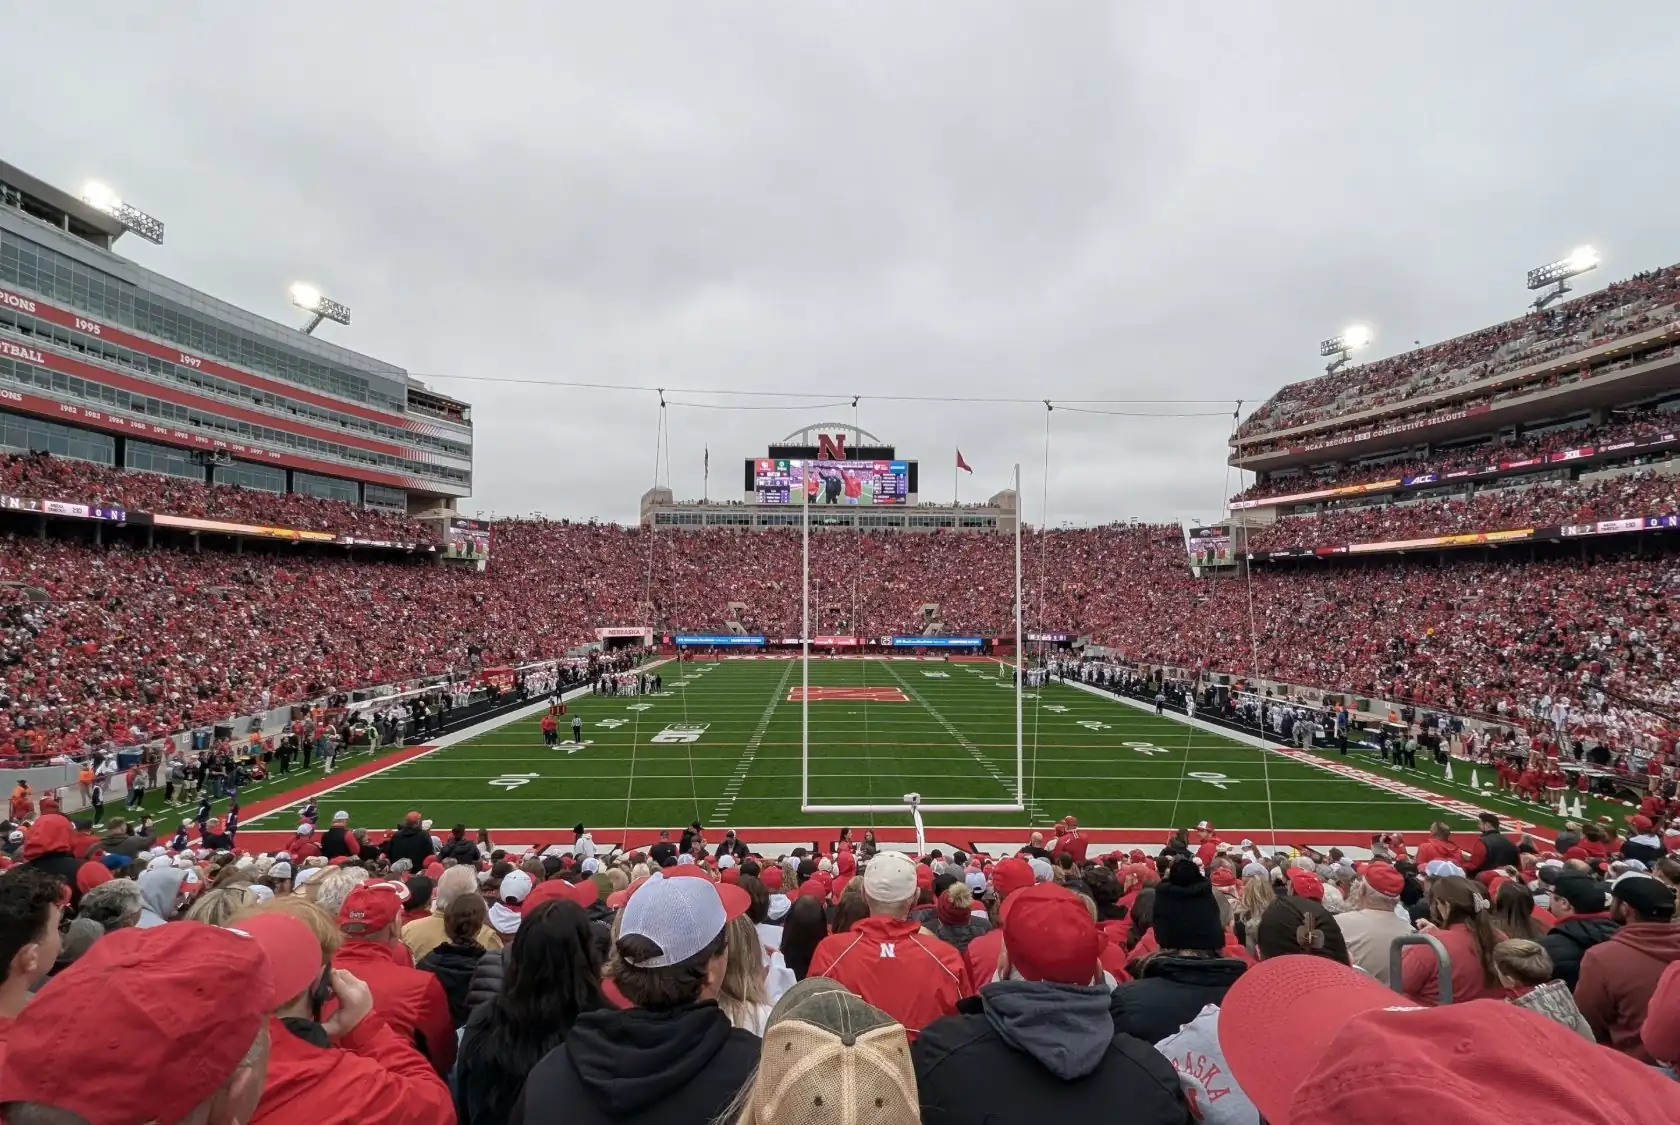
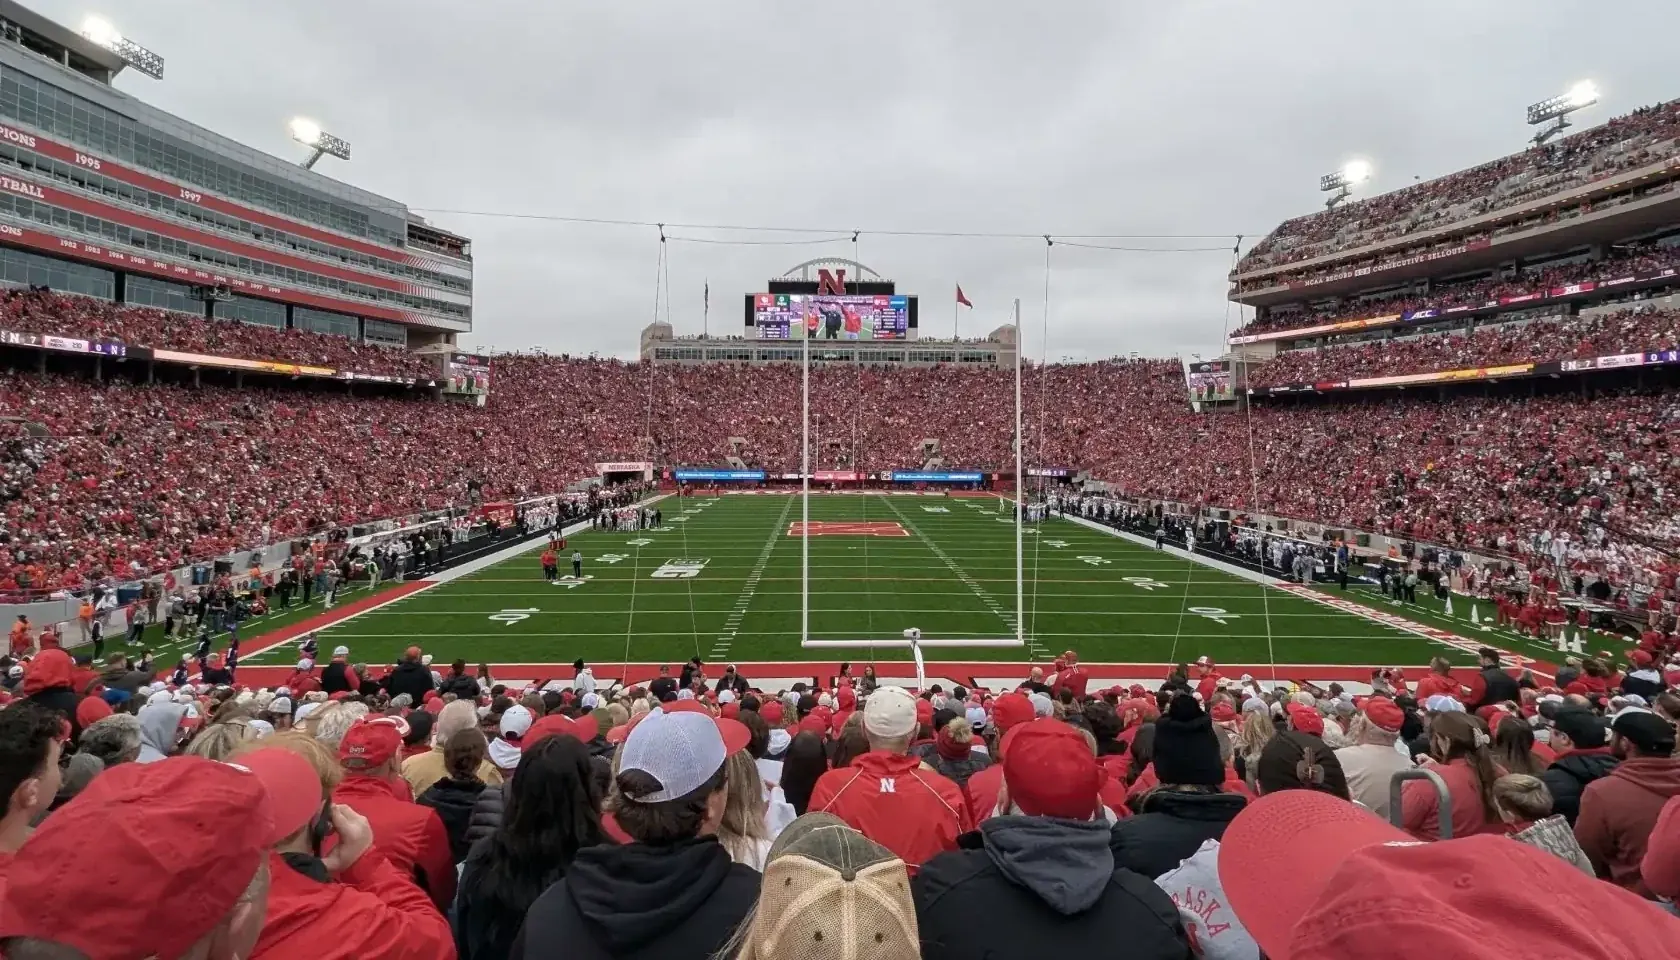
Fixed page backgrounds, Memorial Stadium recrop, gentler fade; phones: sharp whole photos, filters scroll away, slim top bar
Claude-Session: https://claude.ai/code/session_01C5NGh7H2BiqoR7npcamXz7

diff --git a/assets/style.css b/assets/style.css
@@ -41,7 +41,6 @@ h1,h2,h3{font-family:var(--f-d);text-transform:uppercase;letter-spacing:.01em;li
   .nav{order:3;flex:1 1 100%;flex-wrap:nowrap;overflow-x:auto;scrollbar-width:none;margin:0 -6px}
   .nav::-webkit-scrollbar{display:none}
 }
-@media (max-width:860px){.top{position:static}.tools{position:static}}
 
 main{min-height:calc(70vh / var(--z));outline:none}
 .loading,.empty{color:var(--mu);text-align:center;padding:80px 16px}
@@ -1027,16 +1026,18 @@ a.have-cd:hover .ph{border-color:rgba(70,200,120,.6)}
 @media (max-width:640px){.lt-rows{gap:8px}}
 /* Page backgrounds (Ian, 2026-11-25): stadium lights and fine grain on every page; the home page adds ghosted neon
    signatures; football / baseball / basketball pages add a real field, diamond or court photo, faded into the page. */
-.page-bg{position:absolute;left:0;right:0;top:0;height:1100px;z-index:-1;pointer-events:none;overflow:hidden}
+.page-bg{position:fixed;inset:0;z-index:-1;pointer-events:none;overflow:hidden}
 .page-bg i,.page-bg::after{position:absolute;inset:0}
-/* Desktop shows the whole photo across the page width (not zoomed in), fading out only near its bottom edge. */
-.pb-ph{display:none;top:90px;background:center top/100% auto no-repeat;opacity:.34;
-  -webkit-mask:linear-gradient(#000 0,#000 62%,transparent 92%);mask:linear-gradient(#000 0,#000 62%,transparent 92%)}
-body[data-bg="lions"] .pb-ph{display:block;background-image:url(bg/lions.webp)}
-body[data-bg="baseball"] .pb-ph{display:block;background-image:url(bg/baseball.webp)}
-body[data-bg="basketball"] .pb-ph{display:block;background-image:url(bg/basketball.webp)}
-body[data-bg="husker-baseball"] .pb-ph{display:block;background-image:url(bg/husker-baseball.webp)}
-body[data-bg="husker-football"] .pb-ph{display:block;background-image:url(bg/husker-football.webp)}
+/* The backgrounds stay in place while the page scrolls (fixed layer). Each photo shows whole across the page width
+   (not zoomed in), up to the screen's height, and fades out gently toward its bottom edge. */
+.pb-ph{display:none;top:90px;bottom:auto;aspect-ratio:var(--ar,1.5);max-height:calc(100vh - 90px);background:center 75%/cover no-repeat;opacity:.34;
+  -webkit-mask:linear-gradient(#000 0,#000 45%,rgba(0,0,0,.85) 58%,rgba(0,0,0,.6) 70%,rgba(0,0,0,.35) 81%,rgba(0,0,0,.14) 91%,transparent 100%);
+  mask:linear-gradient(#000 0,#000 45%,rgba(0,0,0,.85) 58%,rgba(0,0,0,.6) 70%,rgba(0,0,0,.35) 81%,rgba(0,0,0,.14) 91%,transparent 100%)}
+body[data-bg="lions"] .pb-ph{display:block;--ar:1500/1004;background-image:url(bg/lions.webp)}
+body[data-bg="baseball"] .pb-ph{display:block;--ar:2000/1333;background-image:url(bg/baseball.webp)}
+body[data-bg="basketball"] .pb-ph{display:block;--ar:1760/1152;background-image:url(bg/basketball.webp)}
+body[data-bg="husker-baseball"] .pb-ph{display:block;--ar:2000/1325;background-image:url(bg/husker-baseball.webp)}
+body[data-bg="husker-football"] .pb-ph{display:block;--ar:1680/960;background-image:url(bg/husker-football.webp)}
 .pb-sig{display:none;top:70px;bottom:auto;height:640px;opacity:.2;background:url(bg/signatures.webp) max(0px,calc(50% - 760px)) 0/1440px auto no-repeat;
   -webkit-mask:linear-gradient(90deg,#000 0,#000 45%,transparent 75%);mask:linear-gradient(90deg,#000 0,#000 45%,transparent 75%)}
 body[data-bg="home"] .pb-sig{display:block}
@@ -1052,11 +1053,32 @@ body[data-bg="home"] .pb-sig{display:block}
 .tools{background:rgba(9,12,17,.84);-webkit-backdrop-filter:blur(10px);backdrop-filter:blur(10px)}
 .bg-credit{flex-basis:100%;font-size:11.5px;opacity:.8}.bg-credit a{color:inherit}
 @media (max-width:700px){
-  .page-bg{height:860px}.pb-ph{top:150px;background-size:cover}
+  /* Phones: the whole photo, edge to edge at the top of the screen (sharp 1200px copies), showing through the header. */
+  .pb-ph{top:calc(48px + env(safe-area-inset-top,0px));max-height:none;background-size:100% auto;background-position:center top;opacity:.5}
   body[data-bg="lions"] .pb-ph{background-image:url(bg/lions-m.webp)}
   body[data-bg="baseball"] .pb-ph{background-image:url(bg/baseball-m.webp)}
   body[data-bg="basketball"] .pb-ph{background-image:url(bg/basketball-m.webp)}
   body[data-bg="husker-baseball"] .pb-ph{background-image:url(bg/husker-baseball-m.webp)}
   body[data-bg="husker-football"] .pb-ph{background-image:url(bg/husker-football-m.webp)}
   .pb-sig{top:60px;height:560px;background:url(bg/signatures-m.webp) 0 0/100% auto no-repeat;-webkit-mask:linear-gradient(#000 60%,transparent);mask:linear-gradient(#000 60%,transparent)}
+}
+
+/* Phones (Ian, 2026-11-25): the header and the filters scroll away with the page (nothing floats over the cards).
+   Once the header is gone, a slim bar stays at the top: home, the collection you're in, search and the dice. */
+.mbar{display:none}
+@media (max-width:860px){
+  .top,.tools,.coll .tools{position:static}
+  .top{background:linear-gradient(rgba(13,17,24,.72),rgba(13,17,24,.35))}
+  .mbar{display:flex;align-items:center;gap:4px;position:fixed;top:0;left:0;right:0;z-index:30;
+    padding:env(safe-area-inset-top,0px) max(8px,env(safe-area-inset-right,0px)) 0 max(8px,env(safe-area-inset-left,0px));
+    height:calc(48px + env(safe-area-inset-top,0px));background:rgba(13,17,24,.94);-webkit-backdrop-filter:blur(10px);backdrop-filter:blur(10px);
+    border-bottom:1px solid var(--line);box-shadow:0 8px 24px -16px rgba(0,0,0,.9);transform:translateY(-105%);visibility:hidden;transition:transform .2s,visibility .2s}
+  .mbar.on{transform:none;visibility:visible}
+  .mb-b{flex:none;height:40px;min-width:44px;display:grid;place-items:center;padding:0 8px;border:0;border-radius:9px;background:none;color:var(--fg);text-decoration:none;cursor:pointer}
+  .mb-b:active,.mb-b:focus-visible{background:var(--panel)}
+  .mb-b svg{width:22px;height:22px;fill:none;stroke:currentColor;stroke-width:2;stroke-linecap:round;stroke-linejoin:round}
+  .mb-dice svg{stroke-width:1.8}.mb-dice circle{fill:currentColor;stroke:none}
+  .mb-cat{flex:1 1 auto;min-width:0;display:block;margin-right:auto;font-family:var(--f-d);font-weight:700;font-size:18px;text-transform:uppercase;letter-spacing:.02em;line-height:40px;white-space:nowrap;overflow:hidden;text-overflow:ellipsis;text-align:left}
+  .mb-cat[hidden]{display:block;visibility:hidden}
+  .mb-cat.dd::after{content:" \25BE";font-size:13px;color:var(--mu)}
 }

diff --git a/assets/app.js b/assets/app.js
@@ -471,8 +471,8 @@
       setNav(NAV_NOW);
     }).catch(() => {});
   }
-  function openDD() {
-    const b = $("#dd-btn").getBoundingClientRect(), m = $("#dd-menu");
+  function openDD(at) {
+    const b = (at || $("#dd-btn")).getBoundingClientRect(), m = $("#dd-menu");
     m.hidden = false;
     const w = m.offsetWidth, z = pageZoom();
     m.style.top = b.bottom / z + 6 + "px";
@@ -498,7 +498,25 @@
     NAV_NOW = slug;
     document.querySelectorAll("#nav a, #dd-menu a").forEach((a) => (a.dataset.s === slug ? a.setAttribute("aria-current", "page") : a.removeAttribute("aria-current")));
     const dd = $("#dd-btn"); if (dd) dd.classList.toggle("on", !!$("#dd-menu a[aria-current]"));
+    mbarCat();
   }
+  /* ---------- Phones: the slim bar that stays at the top once the header has scrolled away ---------- */
+  // Its middle button is the collection you're in: "Nebraska" opens the Nebraska menu, others go to their page.
+  function mbarCat() {
+    const el = $("#mb-cat"), s = NAV_NOW || ""; if (!el) return;
+    const neb = /^(husker-|checklist|nfl-|chase-)/.test(s), a = !neb && s && $(`#nav a[data-s="${s}"]`);
+    el.hidden = !(neb || a); el.classList.toggle("dd", neb);
+    el.textContent = neb ? "Nebraska" : a ? a.textContent : "";
+    el.setAttribute("href", neb ? toURL("#/") : a ? a.getAttribute("href") : toURL("#/"));
+  }
+  $("#mb-cat").addEventListener("click", (e) => {
+    if (!e.currentTarget.classList.contains("dd")) return;
+    e.preventDefault(); e.stopPropagation();
+    $("#dd-menu") && ($("#dd-menu").hidden ? openDD(e.currentTarget) : closeDD());
+  });
+  $("#mb-search").addEventListener("click", () => { scrollTo(0, 0); $("#q").focus(); });
+  $("#mb-dice").addEventListener("click", () => $("#dice").click());
+  if ("IntersectionObserver" in window) new IntersectionObserver(([en]) => { $("#mbar").classList.toggle("on", !en.isIntersecting); closeDD(); }).observe($(".top"));
 
   /* ---------- Contact: my address is only put together when someone clicks, so scrapers can't read it ---------- */
   const myEmail = () => { const c = DATA.site.contact || {}; try { return c.code ? atob(c.code).split("").reverse().join("") : ""; } catch (e) { return ""; } };

diff --git a/index.html b/index.html
@@ -29,7 +29,7 @@
 <link rel="preconnect" href="https://lh3.googleusercontent.com">
 <link rel="stylesheet" href="https://fonts.googleapis.com/css2?family=Barlow+Condensed:wght@600;700;800&family=Inter:wght@400;500;600&family=JetBrains+Mono:wght@400;500&display=swap">
 <link rel="preload" href="data/catalog.json" as="fetch" crossorigin>
-<link rel="stylesheet" href="assets/style.css?v=20261125e4">
+<link rel="stylesheet" href="assets/style.css?v=20261125f1">
 </head>
 <body>
 <div class="page-bg" aria-hidden="true"><i class="pb-ph"></i><i class="pb-sig"></i><i class="pb-lit"></i></div>
@@ -49,6 +49,13 @@
     </button>
   </div>
 </header>
+<!-- Phones: once the header scrolls away, this slim bar stays at the top: home, the collection you're in, search, random card. -->
+<nav class="mbar" id="mbar" aria-label="Quick menu">
+  <a class="mb-b" href="#/" aria-label="Home"><svg viewBox="0 0 24 24" aria-hidden="true"><path d="M4 11.2 12 4.5l8 6.7M6.5 9.5V19.5h4.2v-5.2h2.6v5.2h4.2V9.5"/></svg></a>
+  <a class="mb-b mb-cat" id="mb-cat" href="#/" hidden></a>
+  <button type="button" class="mb-b" id="mb-search" aria-label="Search every card"><svg viewBox="0 0 24 24" aria-hidden="true"><circle cx="11" cy="11" r="7"/><path d="m20 20-3.5-3.5"/></svg></button>
+  <button type="button" class="mb-b mb-dice" id="mb-dice" aria-label="Show me a random card"><svg viewBox="0 0 24 24" aria-hidden="true"><rect x="3" y="3" width="18" height="18" rx="4.5"/><circle cx="8" cy="8" r="1.5"/><circle cx="16" cy="8" r="1.5"/><circle cx="12" cy="12" r="1.5"/><circle cx="8" cy="16" r="1.5"/><circle cx="16" cy="16" r="1.5"/></svg></button>
+</nav>
 <main id="app" tabindex="-1">
 <div class="wrap sk" id="sk" aria-busy="true" aria-label="Loading the collection">
   <section class="hero">
@@ -96,6 +103,6 @@
   <section class="v-text" id="v-text" hidden aria-label="Card back text"></section>
   <div class="v-meta" id="v-meta"></div>
 </div>
-<script src="assets/app.js?v=20261125e5"></script>
+<script src="assets/app.js?v=20261125f1"></script>
 </body>
 </html>

diff --git a/CLAUDE.md b/CLAUDE.md
@@ -44,4 +44,6 @@ At the start of a session, read LAUNCH-CHECKLIST.md and remind Ian of "Ian's to-
   autos. MANU is a manufactured patch and does NOT count under Relics & patches.
   When a name has AU/MEM/MANU/SN/PR they override the word-based guesses and are hidden from captions (assets/app.js
   readCodes); backs pair with fronts ignoring these codes and letter codes (scripts/build_catalog.py loose_key).
-- **Mobile:** Ian is often on his phone. Check layouts at phone width.
+- **Mobile:** Ian is often on his phone. Check layouts at phone width. On phones the header and filters scroll away;
+  only the slim top bar (#mbar: home, current collection, search, dice; max four buttons) stays on screen.
+  Page background photos are fixed (they stay put while the page scrolls) and show whole, never zoomed in.
